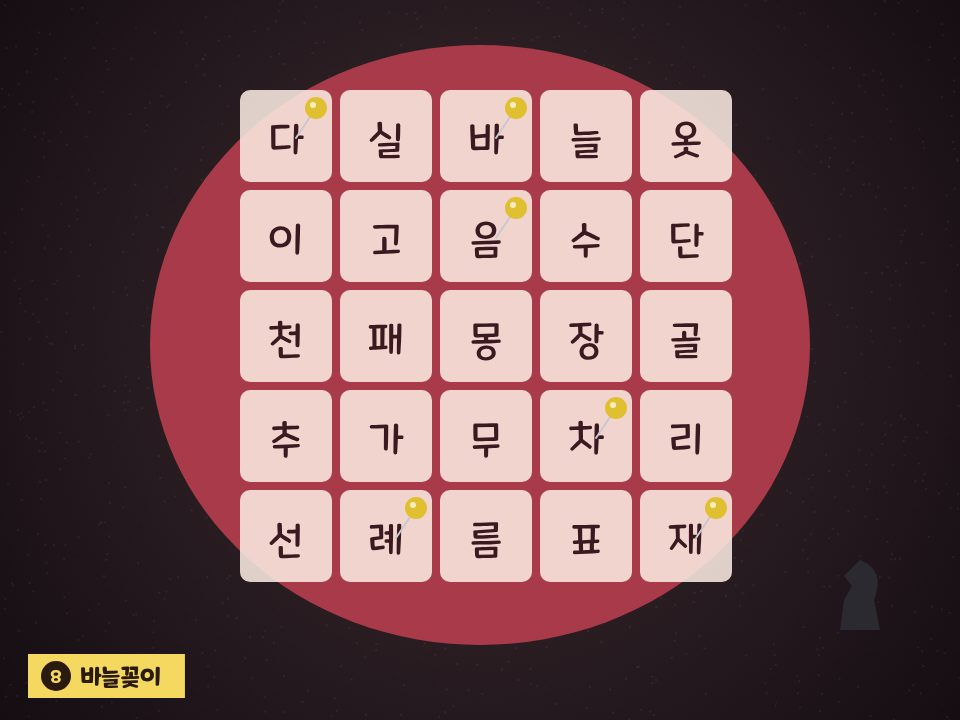
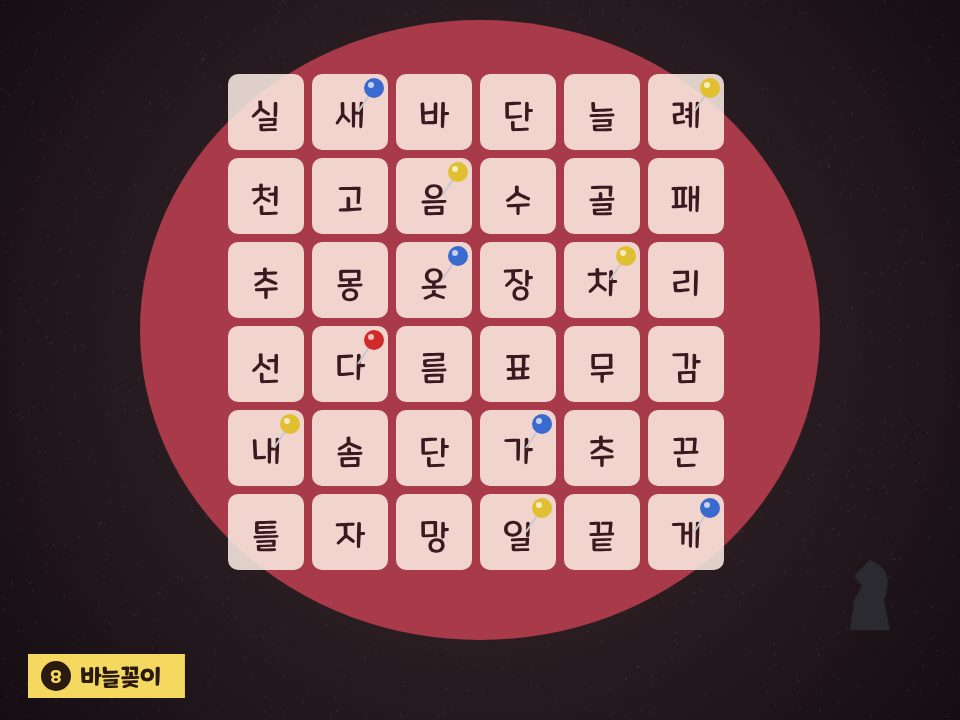
Mongsil puzzles 8 and 9 are harder: 6x6 pincushion with three pin colours, and a stained poster plus one mannequin facing away
Claude-Session: https://claude.ai/code/session_01GyJEdcFjE828PDvtvLXbrE

Changed region(s): [[0.125, 0.0306, 0.875, 0.8861], [0.4375, 0.8861, 0.5625, 0.9167]]

diff --git a/public/dark.js b/public/dark.js
@@ -166,8 +166,8 @@ function mongsilRoom(){
       P(5, '계단 문', '★', ['12'], '어느 줄이든 34'),
       P(6, '재봉틀 서랍', '두 글자.', ['통장'], '울타리 칸마다 하나씩, 순서대로'),
       P(7, '치수표 두 장', '더 줄여야 할 키 (cm).', ['3', '3cm', '3.1', '3.1cm'], '줄자 아래'),
-      P(8, '바늘꽂이', '네 글자.', ['다음차례'], '말처럼'),
-      P(9, '마네킹 줄', '넷.', ['next'], '포스터는 뒷모습'),
+      P(8, '바늘꽂이', '네 글자.', ['다음차례'], '빨간 핀부터, 말처럼'),
+      P(9, '마네킹 줄', '넷.', ['next'], '포스터는 뒷모습 · 마네킹 얼굴도 봐요'),
       P(10, '옷 안감', '두 글자.', ['창고'], '매듭부터'),
       P(11, '바닷가 창고 지도', '어느 칸?', ['b3'], '화살표'),
       P(12, '창고 벽 앞 상자', '갇혀 있던 날.', ['41', '41일'], '떠 있는 상자는 없어요'),

diff --git a/docs/DARK_STORY.md b/docs/DARK_STORY.md
@@ -289,8 +289,8 @@
 | 5 | 계단 문 | 4 × 4 마방진 (1 ~ 16 · 단서 여섯) | 12 |
 | 6 | 재봉틀 서랍 | 울타리 암호 (판에 글자 몇 개만) | 통장 |
 | 7 | 치수표 두 장 | inch ↔ cm + 등을 굽히면 2 cm | 3 |
-| 8 | 바늘꽂이 | 같은 색 핀 중 나이트 걸음으로 이어지는 것만 | 다음차례 |
-| 9 | 마네킹 줄 | 깃발 신호 · 포스터는 뒷모습이라 좌우가 바뀜 | NEXT |
+| 8 | 바늘꽂이 | 6 × 6 · 빨간 핀에서 시작해 같은 색 핀끼리 나이트 걸음 (노랑 = 다음차례 · 파랑은 다가게/새옷가게 함정 · 줄 순서로 읽으면 례음차다내일) | 다음차례 |
+| 9 | 마네킹 줄 | 깃발 신호 · 포스터는 뒷모습이라 좌우가 바뀜 · 둘째 마네킹만 뒤돌아 있어 그대로 · 포스터의 E F G N T X 는 얼룩 → 규칙으로 메꿔요 | NEXT |
 | 10 | 옷 안감 | 매듭에서 시작한 빨간 실 순서 (줄 순서로 읽으면 "고창") | 창고 |
 | 11 | 바닷가 창고 지도 | 미로 + 한쪽 길 화살표 (화살표를 무시하면 다른 출구) | B3 |
 | 12 | 창고 벽 앞 상자 | 계단처럼 쌓인 상자 · 가려진 것까지 | 41 |
